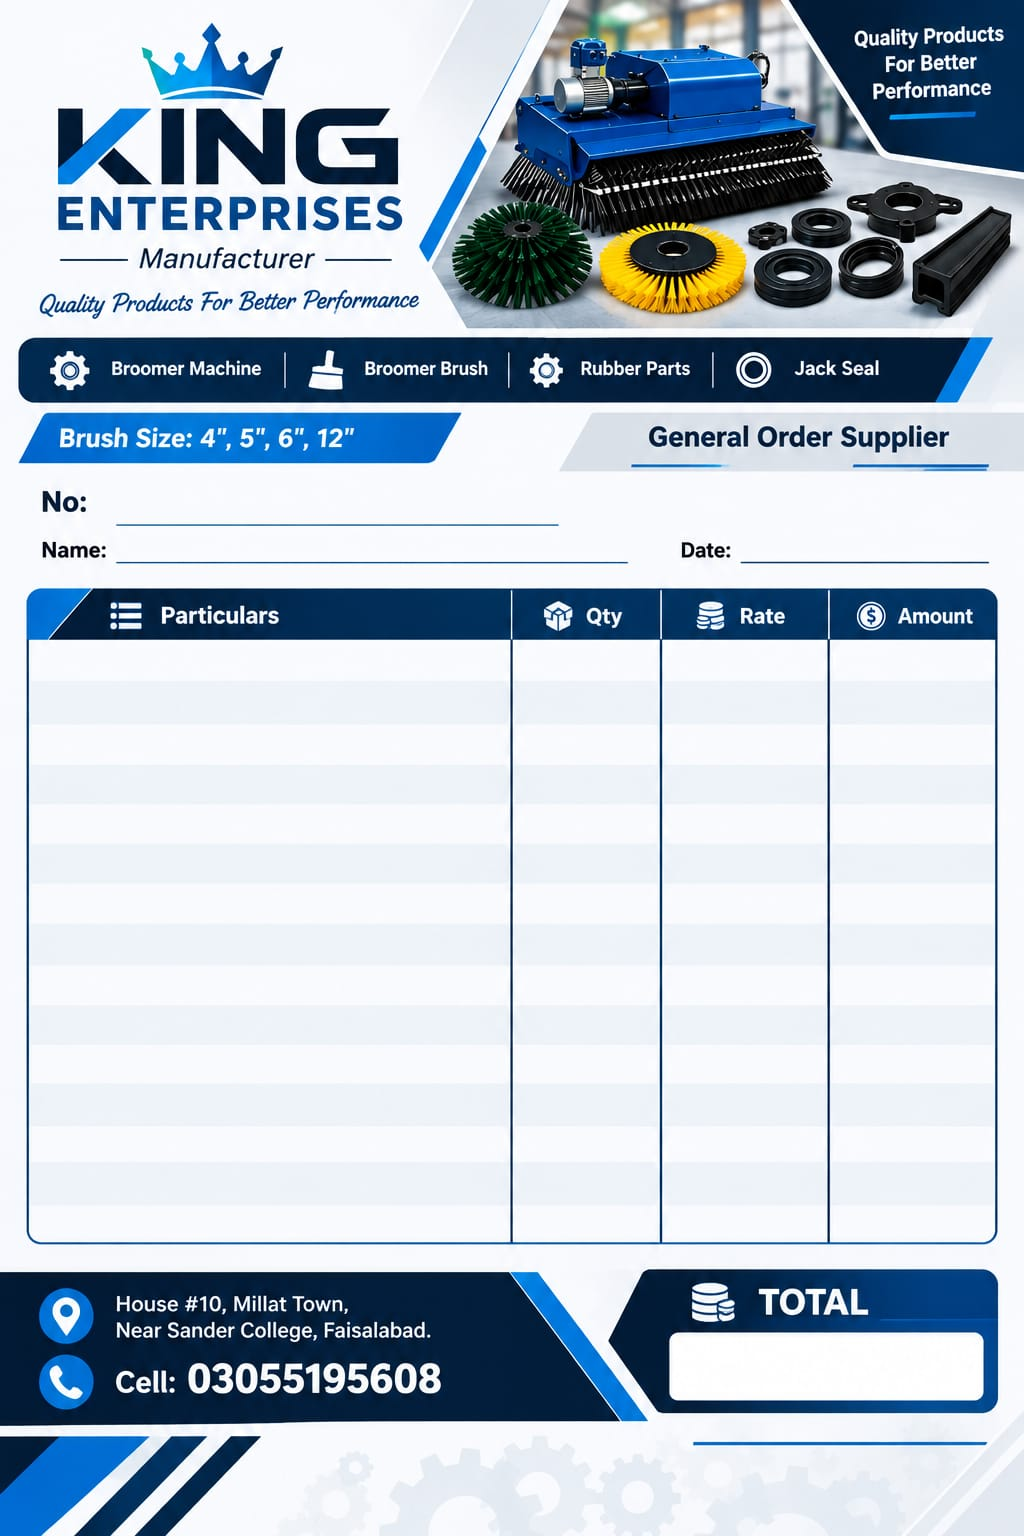
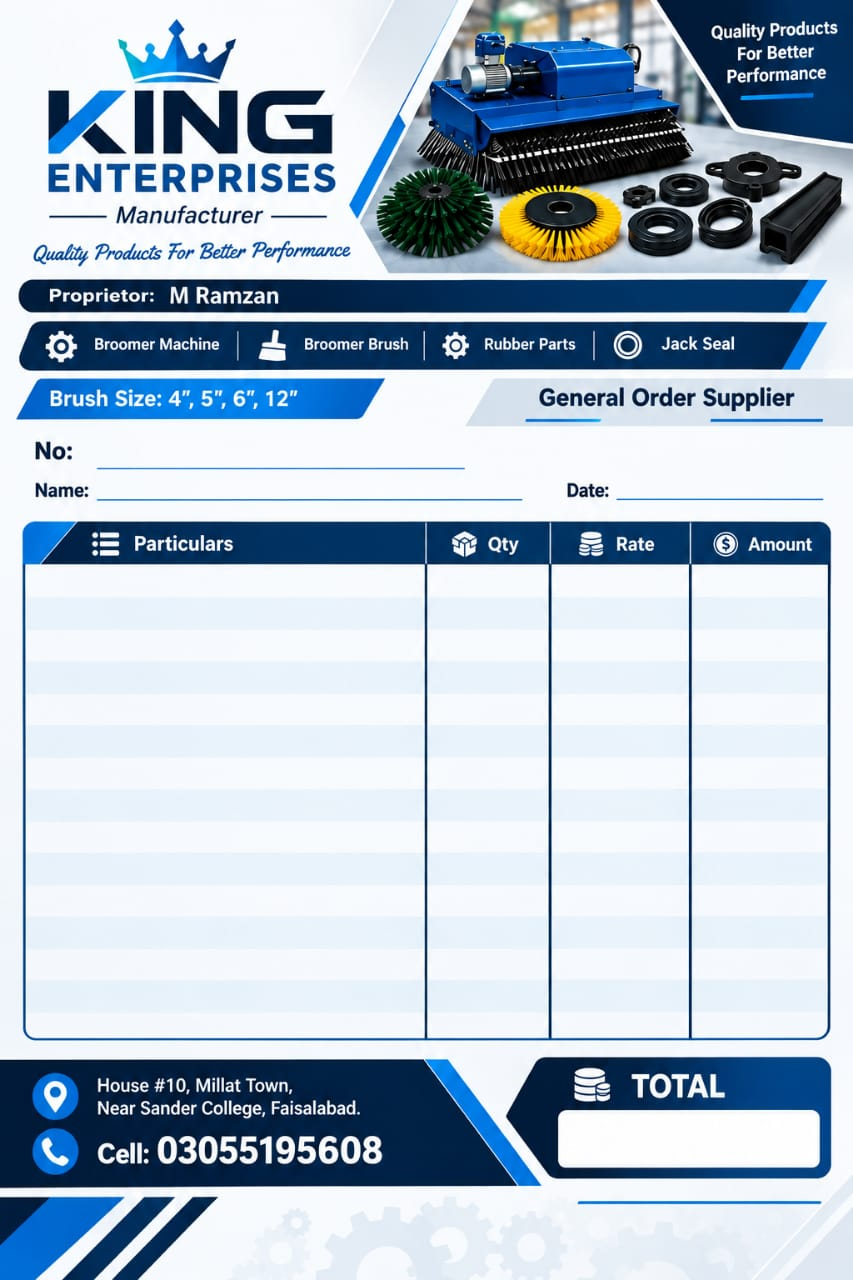
Update assets and UI components

diff --git a/src/components/bills/BillTemplate.tsx b/src/components/bills/BillTemplate.tsx
@@ -118,7 +118,7 @@ function ShareefBillRenderer({ bill, business }: BillTemplateProps) {
 
   return (
     <article className="bill-sheet reference-sheet" aria-label="SHAREEF TRADERS bill invoice">
-      <img className="reference-page" src="/Al Shareef.png" alt="" aria-hidden="true" />
+      <img className="reference-page" src="/Al Shareef.jpeg" alt="" aria-hidden="true" />
       <div className="reference-overlay">
         <div className="reference-field" style={{ ...cfg.customer }}>{lineOne}</div>
         <div className="reference-field" style={{ ...cfg.place }}>{lineTwo}</div>
@@ -151,17 +151,17 @@ function ShareefBillRenderer({ bill, business }: BillTemplateProps) {
 // KING ENTERPRISE CONFIGURATION
 // ============================================================================
 const kingConfig = {
-  billNo: { left: "10%", top: "29.5%", width: "42%", height: "3%", color: "#111", fontSize: "14px", fontWeight: "700" },
-  date: { left: "70%", top: "33.5%", width: "24%", height: "3%", color: "#111", fontSize: "14px", fontWeight: "700" },
-  customer: { left: "12%", top: "33.5%", width: "40%", height: "3%", color: "#111", fontSize: "14px", fontWeight: "700" },
+  billNo: { left: "11.5%", top: "34.0%", width: "40%", height: "3%", color: "#111", fontSize: "14px", fontWeight: "700" },
+  date: { left: "75%", top: "35.5%", width: "24%", height: "3%", color: "#111", fontSize: "14px", fontWeight: "700" },
+  customer: { left: "17%", top: "35.5%", width: "40%", height: "3%", color: "#111", fontSize: "14px", fontWeight: "700" },
   total: { left: "71.5%", top: "88%", width: "24%", height: "3.5%", color: "#111", fontSize: "15px", fontWeight: "800", alignItems: "center" },
-  tableStart: 42.4,
-  rowHeight: 3.9,
+  tableStart: 43.2,
+  rowHeight: 3.6,
   cols: {
-    detail: { left: "13%", width: "40%", isLeft: true },
-    qty: { left: "55%", width: "11%" },
-    rate: { left: "66%", width: "13.5%" },
-    amount: { left: "79.5%", width: "16.5%" }
+    detail: { left: "12%", width: "40%", isLeft: true },
+    qty: { left: "56%", width: "11%" },
+    rate: { left: "68%", width: "12%" },
+    amount: { left: "83%", width: "14%" }
   }
 };
 
@@ -179,8 +179,8 @@ function KingEnterpriseBillRenderer({ bill }: BillTemplateProps) {
       <img className="reference-page" src="/king enterprise.jpeg" alt="" aria-hidden="true" />
       <div className="reference-overlay">
         <div className="reference-field" style={{ ...cfg.customer }}>{lineOne}</div>
-        <div className="reference-field" style={{ ...cfg.billNo, justifyContent: "center" }}>{billNumber}</div>
-        <div className="reference-field" style={{ ...cfg.date, justifyContent: "center" }}>{billDateValue}</div>
+        <div className="reference-field" style={{ ...cfg.billNo }}>{billNumber}</div>
+        <div className="reference-field" style={{ ...cfg.date }}>{billDateValue}</div>
 
         <div className="reference-items">
           {rows.map((item, index) => {

diff --git a/src/app/layout.tsx b/src/app/layout.tsx
@@ -6,6 +6,11 @@ import { ToastProvider } from "@/context/ToastContext";
 export const metadata: Metadata = {
   title: "BillBook — Bill Management",
   description: "A simple, professional bill management app for daily business use.",
+  icons: {
+    icon: "/logo.jpeg",
+    apple: "/logo.jpeg",
+  },
+  manifest: "/manifest.json",
 };
 
 export const viewport: Viewport = {
